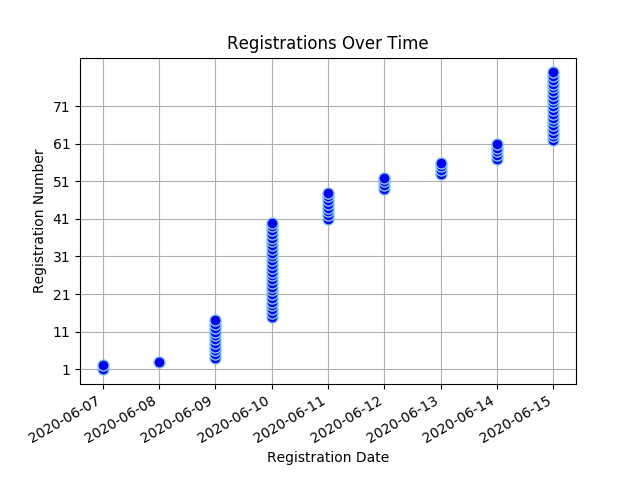
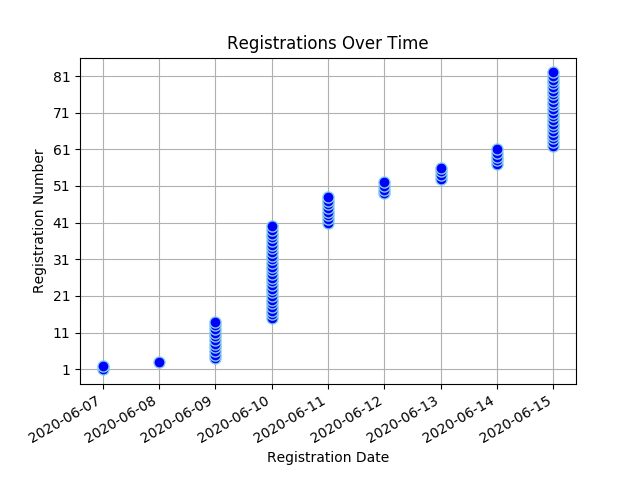
Registree stats backup on Mon Jun 15 19:35:02 SAST 2020

diff --git a/content/virtual_conf_stats/_index.md b/content/virtual_conf_stats/_index.md
@@ -16,7 +16,7 @@ draft: false
 </head>
 <body>
 <h1 style="color: #000000;">Virtual Convention Registration Stats</h1>
-<ul><li><strong>Number of Registrees</strong>: 80</li>
+<ul><li><strong>Number of Registrees</strong>: 82</li>
 </ul><a href="/docs/virtual_convention_stats.csv">Download registration details here</a>
 <h2>Registrees</h2>
 <table id="registreeTable" class="tablesorter" border="1" padding=1>
@@ -76,6 +76,7 @@ Club
 <tr><td>Michas, Roy</td><td>Midrand</td></tr>
 <tr><td>Mills, Patrick</td><td>Centurion</td></tr>
 <tr><td>Murray, Gary</td><td>Vereeniging</td></tr>
+<tr><td>Murray, Suzanne</td><td>Vereeniging Lions Club</td></tr>
 <tr><td>Newlands, Mike</td><td>Port Alfred</td></tr>
 <tr><td>Nulliah, Ramona</td><td>Durban Host</td></tr>
 <tr><td>Olivier, Debra</td><td>Sedgefield</td></tr>
@@ -83,6 +84,7 @@ Club
 <tr><td>Polkinghorne, Gavin</td><td>Kensington</td></tr>
 <tr><td>Polkinghorne, Tracey</td><td>Kensington</td></tr>
 <tr><td>PORTEOUS, BRIAN</td><td>HIBBERDENE - 57333</td></tr>
+<tr><td>Roman, Sandy</td><td>Bergvliet</td></tr>
 <tr><td>Sabatier, Rodney</td><td>Letaba Tzaneen Lions Club</td></tr>
 <tr><td>Searle, Gloria Ann</td><td>Kouga</td></tr>
 <tr><td>Seaward, Roy</td><td>Alberton</td></tr>
